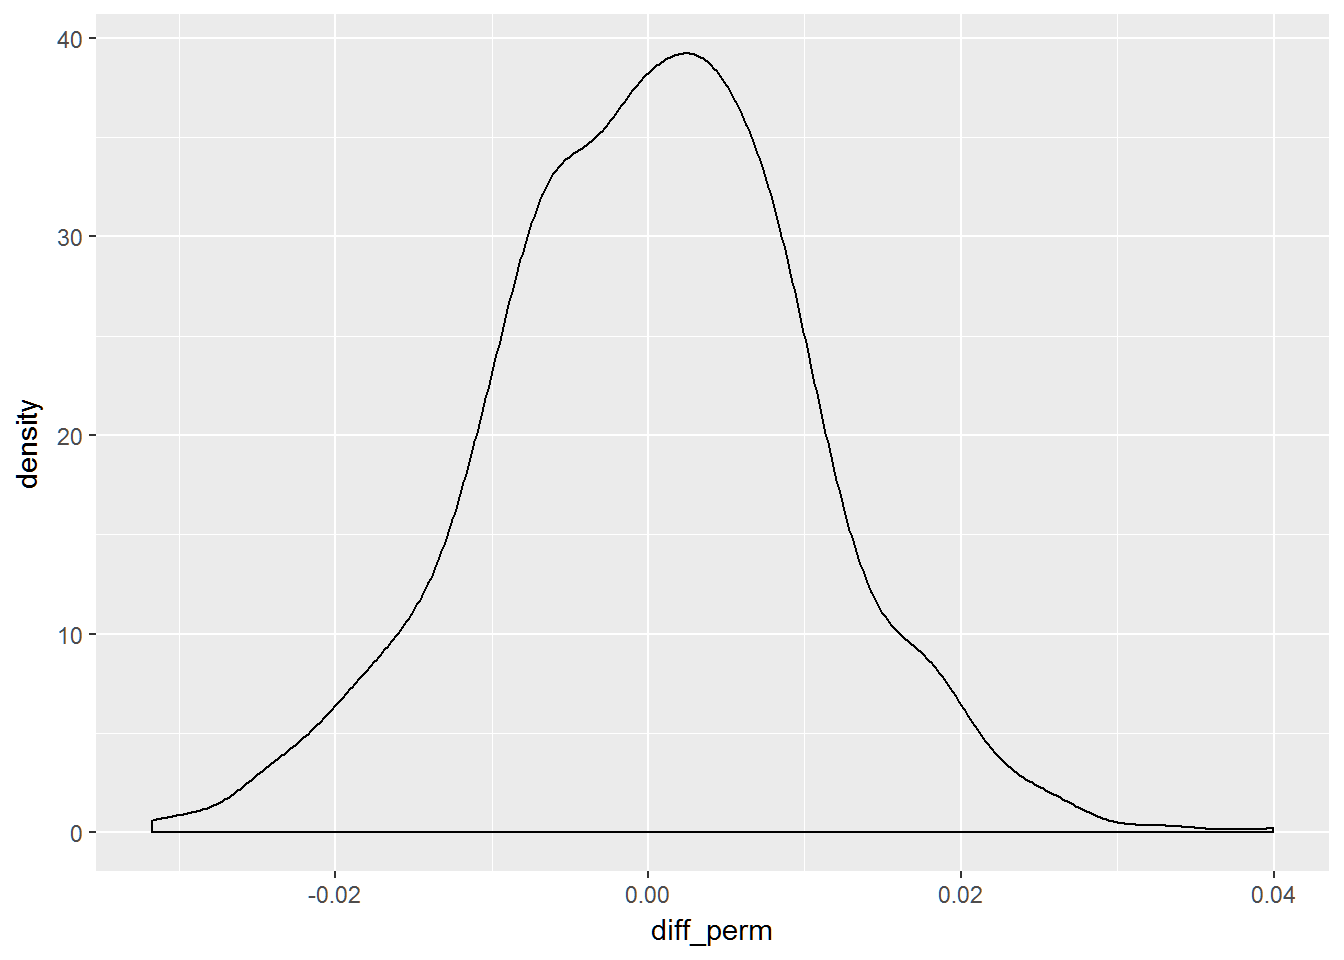
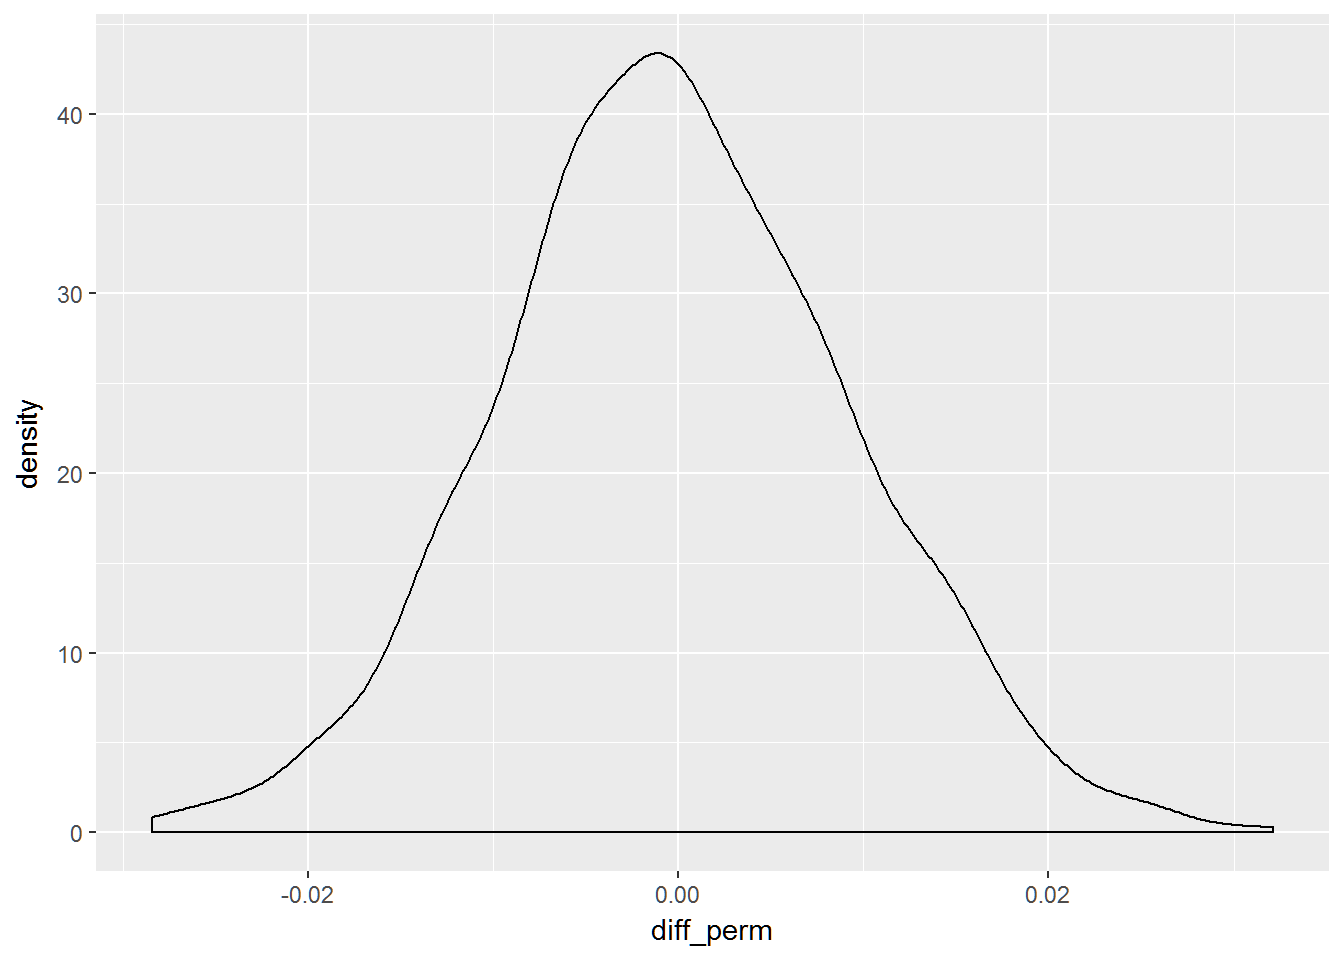
Added density plot with vline for observed

diff --git a/docs/foundations-of-inference.html b/docs/foundations-of-inference.html
@@ -107,6 +107,7 @@ code > span.in { color: #60a0b0; font-weight: bold; font-style: italic; } /* Inf
 <li class="chapter" data-level="1" data-path="foundations-of-inference.html"><a href="foundations-of-inference.html"><i class="fa fa-check"></i><b>1</b> Foundations of Inference</a><ul>
 <li class="chapter" data-level="1.1" data-path="foundations-of-inference.html"><a href="foundations-of-inference.html#introduction-to-inference"><i class="fa fa-check"></i><b>1.1</b> Introduction to Inference</a></li>
 <li class="chapter" data-level="1.2" data-path="foundations-of-inference.html"><a href="foundations-of-inference.html#home-ownership-by-gender"><i class="fa fa-check"></i><b>1.2</b> Home Ownership by Gender</a></li>
+<li class="chapter" data-level="1.3" data-path="foundations-of-inference.html"><a href="foundations-of-inference.html#density-plots"><i class="fa fa-check"></i><b>1.3</b> Density Plots</a></li>
 </ul></li>
 <li class="chapter" data-level="" data-path="references.html"><a href="references.html"><i class="fa fa-check"></i>References</a></li>
 <li class="divider"></li>
@@ -219,9 +220,9 @@ homes %&gt;%
 <span class="st">  </span><span class="kw">summarize</span>(<span class="dt">diff_perm =</span> <span class="kw">diff</span>(prop_own),
             <span class="dt">diff_orig =</span> <span class="kw">diff</span>(prop_own_perm))</code></pre></div>
 <pre><code>## # A tibble: 1 × 2
-##      diff_perm     diff_orig
-##          &lt;dbl&gt;         &lt;dbl&gt;
-## 1 -0.007828723 -0.0004148505</code></pre>
+##      diff_perm    diff_orig
+##          &lt;dbl&gt;        &lt;dbl&gt;
+## 1 -0.007828723 0.0008207949</code></pre>
 <p>It is easier to see what is going on by breaking the results down iteratively. Our selected and filtered homes dataset looks like.</p>
 <div class="sourceCode"><pre class="sourceCode r"><code class="sourceCode r"><span class="kw">head</span>(homes)</code></pre></div>
 <pre><code>## # A tibble: 6 × 2
@@ -243,11 +244,11 @@ homes %&gt;%
 ## 
 ##   Gender HomeOwn HomeOwn_perm
 ##   &lt;fctr&gt;  &lt;fctr&gt;       &lt;fctr&gt;
-## 1   male    Rent          Own
-## 2   male    Rent          Own
+## 1   male    Rent         Rent
+## 2   male    Rent         Rent
 ## 3 female     Own          Own
-## 4   male     Own         Rent
-## 5   male     Own         Rent
+## 4   male     Own          Own
+## 5   male     Own          Own
 ## 6   male     Own          Own</code></pre>
 <div class="sourceCode"><pre class="sourceCode r"><code class="sourceCode r"><span class="kw">summary</span>(homes2)</code></pre></div>
 <pre><code>##     Gender      HomeOwn     HomeOwn_perm
@@ -262,8 +263,8 @@ homes3</code></pre></div>
 <pre><code>## # A tibble: 2 × 3
 ##   Gender prop_own_perm  prop_own
 ##   &lt;fctr&gt;         &lt;dbl&gt;     &lt;dbl&gt;
-## 1 female     0.6705521 0.6654397
-## 2   male     0.6524264 0.6576109</code></pre>
+## 1 female     0.6627812 0.6654397
+## 2   male     0.6603069 0.6576109</code></pre>
 <p>FFinally we calculate the differences in ownership - note that the difference for the permuted value here may be different from the full code above, as it a new random permutation and we have used the set.seed() function which would create an identical permutation.</p>
 <div class="sourceCode"><pre class="sourceCode r"><code class="sourceCode r">homes4 &lt;-<span class="st"> </span>homes3 %&gt;%<span class="st"> </span>
 <span class="st">  </span><span class="kw">summarize</span>(<span class="dt">diff_perm =</span> <span class="kw">diff</span>(prop_own),
@@ -272,7 +273,10 @@ homes4</code></pre></div>
 <pre><code>## # A tibble: 1 × 2
 ##      diff_perm   diff_orig
 ##          &lt;dbl&gt;       &lt;dbl&gt;
-## 1 -0.007828723 -0.01812577</code></pre>
+## 1 -0.007828723 -0.00247426</code></pre>
+</div>
+<div id="density-plots" class="section level2">
+<h2><span class="header-section-number">1.3</span> Density Plots</h2>
 <p>Next we can make multiple permutations using the rep_sample_n from the oilabs package. We specify the data (tbl), the sample size, the number of samples to take (reps), and whether sampling should be done with or without replacement (replace). The output includes a new column, replicate, which indicates the sample number. We can create 100 permutations and create a dot plot of the results.</p>
 <div class="sourceCode"><pre class="sourceCode r"><code class="sourceCode r"><span class="co"># Perform 100 permutations</span>
 homeown_perm &lt;-<span class="st"> </span>homes %&gt;%
@@ -289,7 +293,8 @@ homeown_perm &lt;-<span class="st"> </span>homes %&gt;%
 <span class="st">  </span><span class="kw">geom_dotplot</span>(<span class="dt">binwidth =</span> .<span class="dv">001</span>)</code></pre></div>
 <p><img src="Foundations-of-Inference_files/figure-html/unnamed-chunk-10-1.png" width="672" /></p>
 <p>We can go further and run 1000 permutations and create a density chart.</p>
-<div class="sourceCode"><pre class="sourceCode r"><code class="sourceCode r"><span class="co"># Perform 1000 permutations</span>
+<div class="sourceCode"><pre class="sourceCode r"><code class="sourceCode r"><span class="kw">set.seed</span>(<span class="dv">666</span>)
+<span class="co"># Perform 1000 permutations</span>
 homeown_perm &lt;-<span class="st"> </span>homes %&gt;%
 <span class="st">  </span><span class="kw">rep_sample_n</span>(<span class="dt">size =</span> <span class="kw">nrow</span>(homes), <span class="dt">reps =</span> <span class="dv">1000</span>) %&gt;%
 <span class="st">  </span><span class="kw">mutate</span>(<span class="dt">HomeOwn_perm =</span> <span class="kw">sample</span>(HomeOwn)) %&gt;%
@@ -303,6 +308,19 @@ homeown_perm &lt;-<span class="st"> </span>homes %&gt;%
 <span class="kw">ggplot</span>(homeown_perm, <span class="kw">aes</span>(<span class="dt">x =</span> diff_perm)) +<span class="st"> </span>
 <span class="st">  </span><span class="kw">geom_density</span>()</code></pre></div>
 <p><img src="Foundations-of-Inference_files/figure-html/unnamed-chunk-11-1.png" width="672" /></p>
+<p>Now we have our density plot of the null hypothesis - randomly permuted samples - we can see where our actual observed difference lies, plus how many other randomly permuted differences were less than the observed difference.</p>
+<div class="sourceCode"><pre class="sourceCode r"><code class="sourceCode r">  <span class="co"># Plot permuted differences</span>
+<span class="kw">ggplot</span>(homeown_perm, <span class="kw">aes</span>(<span class="dt">x =</span> diff_perm)) +<span class="st"> </span>
+<span class="st">  </span><span class="kw">geom_density</span>() +
+<span class="st">  </span><span class="kw">geom_vline</span>(<span class="kw">aes</span>(<span class="dt">xintercept =</span> diff_orig),
+          <span class="dt">col =</span> <span class="st">&quot;red&quot;</span>)</code></pre></div>
+<p><img src="Foundations-of-Inference_files/figure-html/unnamed-chunk-12-1.png" width="672" /></p>
+<div class="sourceCode"><pre class="sourceCode r"><code class="sourceCode r"><span class="co"># Compare permuted differences to observed difference and calculate the percent of differences</span>
+homeown_perm %&gt;%
+<span class="st">  </span><span class="kw">summarize</span>(<span class="kw">sum</span>(diff_orig &gt;=<span class="st"> </span>diff_perm)) /<span class="dv">1000</span> *<span class="st"> </span><span class="dv">100</span></code></pre></div>
+<pre><code>##   sum(diff_orig &gt;= diff_perm)
+## 1                        20.5</code></pre>
+<p>So in this instance, when we set the seed of 666 we end up with 20.5% of randomly shuffled (permuted) differences being greater than the observed difference, so the observed difference is consistent with the null hypothesis. That it to say it is within the range we may expect by chance alone, were we to repeat the exercise, although we should specify a distribtion we are comparing against, in this which is inferred as being the normal distribution in this instance. <strong>We can therefore say that there is no statistically significant difference between gender and home ownership</strong>.</p>
 </div>
 </div>
 <h3>References</h3>

diff --git a/docs/index.html b/docs/index.html
@@ -107,6 +107,7 @@ code > span.in { color: #60a0b0; font-weight: bold; font-style: italic; } /* Inf
 <li class="chapter" data-level="1" data-path="foundations-of-inference.html"><a href="foundations-of-inference.html"><i class="fa fa-check"></i><b>1</b> Foundations of Inference</a><ul>
 <li class="chapter" data-level="1.1" data-path="foundations-of-inference.html"><a href="foundations-of-inference.html#introduction-to-inference"><i class="fa fa-check"></i><b>1.1</b> Introduction to Inference</a></li>
 <li class="chapter" data-level="1.2" data-path="foundations-of-inference.html"><a href="foundations-of-inference.html#home-ownership-by-gender"><i class="fa fa-check"></i><b>1.2</b> Home Ownership by Gender</a></li>
+<li class="chapter" data-level="1.3" data-path="foundations-of-inference.html"><a href="foundations-of-inference.html#density-plots"><i class="fa fa-check"></i><b>1.3</b> Density Plots</a></li>
 </ul></li>
 <li class="chapter" data-level="" data-path="references.html"><a href="references.html"><i class="fa fa-check"></i>References</a></li>
 <li class="divider"></li>
@@ -132,7 +133,7 @@ code > span.in { color: #60a0b0; font-weight: bold; font-style: italic; } /* Inf
 <div id="header">
 <h1 class="title">Study notes</h1>
 <h4 class="author"><em>James Solomon-Rounce</em></h4>
-<h4 class="date"><em>Last updated:2017-04-20</em></h4>
+<h4 class="date"><em>Last updated:2017-04-21</em></h4>
 </div>
 <div id="preface" class="section level1 unnumbered">
 <h1>Preface</h1>

diff --git a/docs/references.html b/docs/references.html
@@ -107,6 +107,7 @@ code > span.in { color: #60a0b0; font-weight: bold; font-style: italic; } /* Inf
 <li class="chapter" data-level="1" data-path="foundations-of-inference.html"><a href="foundations-of-inference.html"><i class="fa fa-check"></i><b>1</b> Foundations of Inference</a><ul>
 <li class="chapter" data-level="1.1" data-path="foundations-of-inference.html"><a href="foundations-of-inference.html#introduction-to-inference"><i class="fa fa-check"></i><b>1.1</b> Introduction to Inference</a></li>
 <li class="chapter" data-level="1.2" data-path="foundations-of-inference.html"><a href="foundations-of-inference.html#home-ownership-by-gender"><i class="fa fa-check"></i><b>1.2</b> Home Ownership by Gender</a></li>
+<li class="chapter" data-level="1.3" data-path="foundations-of-inference.html"><a href="foundations-of-inference.html#density-plots"><i class="fa fa-check"></i><b>1.3</b> Density Plots</a></li>
 </ul></li>
 <li class="chapter" data-level="" data-path="references.html"><a href="references.html"><i class="fa fa-check"></i>References</a></li>
 <li class="divider"></li>

diff --git a/docs/Foundations-of-Inference.md b/docs/Foundations-of-Inference.md
@@ -95,9 +95,9 @@ homes %>%
 
 ```
 ## # A tibble: 1 × 2
-##      diff_perm     diff_orig
-##          <dbl>         <dbl>
-## 1 -0.007828723 -0.0004148505
+##      diff_perm    diff_orig
+##          <dbl>        <dbl>
+## 1 -0.007828723 0.0008207949
 ```
 
 It is easier to see what is going on by breaking the results down iteratively.  Our selected and filtered homes dataset looks like. 
@@ -135,11 +135,11 @@ tail(homes2)
 ## 
 ##   Gender HomeOwn HomeOwn_perm
 ##   <fctr>  <fctr>       <fctr>
-## 1   male    Rent          Own
-## 2   male    Rent          Own
+## 1   male    Rent         Rent
+## 2   male    Rent         Rent
 ## 3 female     Own          Own
-## 4   male     Own         Rent
-## 5   male     Own         Rent
+## 4   male     Own          Own
+## 5   male     Own          Own
 ## 6   male     Own          Own
 ```
 
@@ -168,8 +168,8 @@ homes3
 ## # A tibble: 2 × 3
 ##   Gender prop_own_perm  prop_own
 ##   <fctr>         <dbl>     <dbl>
-## 1 female     0.6705521 0.6654397
-## 2   male     0.6524264 0.6576109
+## 1 female     0.6627812 0.6654397
+## 2   male     0.6603069 0.6576109
 ```
 
 FFinally we calculate the differences in ownership - note that the difference for the permuted value here may be different from the full code above, as it a new random permutation and we have used the set.seed() function which would create an identical permutation.
@@ -186,9 +186,10 @@ homes4
 ## # A tibble: 1 × 2
 ##      diff_perm   diff_orig
 ##          <dbl>       <dbl>
-## 1 -0.007828723 -0.01812577
+## 1 -0.007828723 -0.00247426
 ```
 
+##Density Plots
 Next we can make multiple permutations using the rep_sample_n from the oilabs package.  We specify  the data (tbl), the sample size, the number of samples to take (reps), and whether sampling should be done with or without replacement (replace). The output includes a new column, replicate, which indicates the sample number. We can create 100 permutations and create a dot plot of the results.
 
 
@@ -214,6 +215,7 @@ We can go further and run 1000 permutations and create a density chart.
 
 
 ```r
+set.seed(666)
 # Perform 1000 permutations
 homeown_perm <- homes %>%
   rep_sample_n(size = nrow(homes), reps = 1000) %>%
@@ -231,7 +233,31 @@ ggplot(homeown_perm, aes(x = diff_perm)) +
 
 <img src="Foundations-of-Inference_files/figure-html/unnamed-chunk-11-1.png" width="672" />
 
+Now we have our density plot of the null hypothesis - randomly permuted samples - we can see where our actual observed difference lies, plus how many other randomly permuted differences were less than the observed difference.
 
+
+```r
+  # Plot permuted differences
+ggplot(homeown_perm, aes(x = diff_perm)) + 
+  geom_density() +
+  geom_vline(aes(xintercept = diff_orig),
+          col = "red")
+```
+
+<img src="Foundations-of-Inference_files/figure-html/unnamed-chunk-12-1.png" width="672" />
+
+```r
+# Compare permuted differences to observed difference and calculate the percent of differences
+homeown_perm %>%
+  summarize(sum(diff_orig >= diff_perm)) /1000 * 100
+```
+
+```
+##   sum(diff_orig >= diff_perm)
+## 1                        20.5
+```
+
+So in this instance, when we set the seed of 666 we end up with 20.5% of randomly shuffled (permuted) differences being greater than the observed difference, so the observed difference is consistent with the null hypothesis.  That it to say it is within the range we may expect by chance alone, were we to repeat the exercise, although we should specify a distribtion we are comparing against, in this which is inferred as being the normal distribution in this instance.  __We can therefore say that there is no statistically significant difference between gender and home ownership__.
 
 
 

diff --git a/docs/index.md b/docs/index.md
@@ -1,7 +1,7 @@
 --- 
 title: "Study notes"
 author: "James Solomon-Rounce"
-date: 'Last updated:2017-04-20'
+date: 'Last updated:2017-04-21'
 bibliography: book.bib
 description: Study notes taken from courses and self learning.
 documentclass: book
